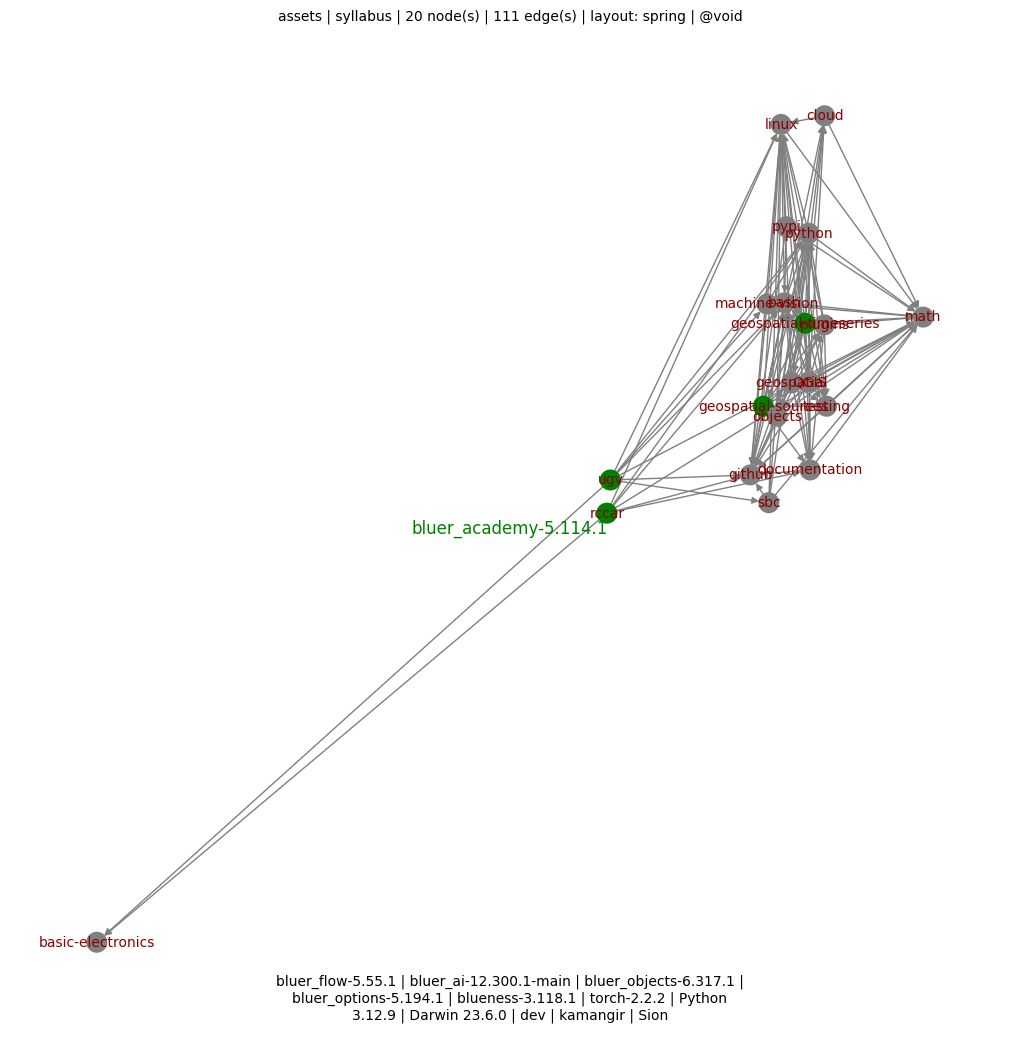
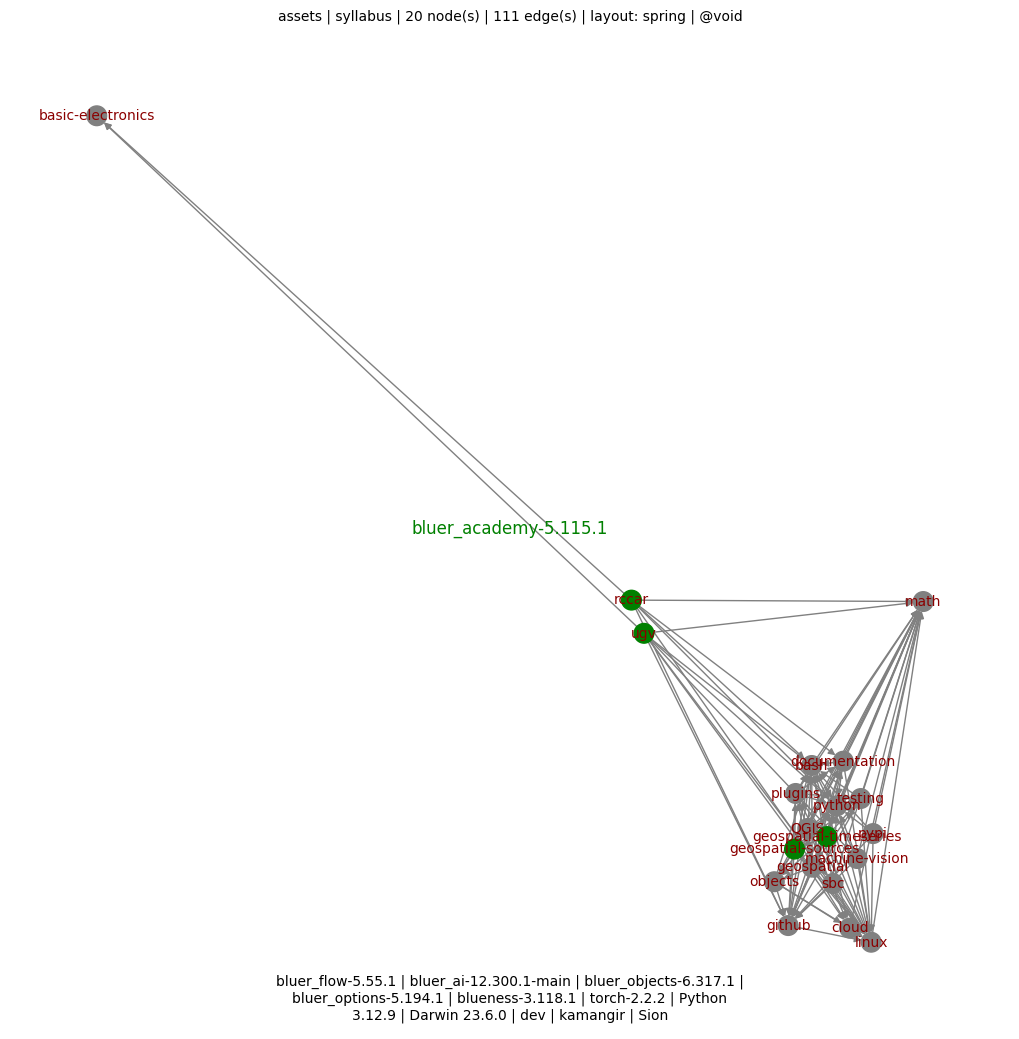
++ - kamangir/bolt#746

diff --git a/bluer_academy/README/academy.py b/bluer_academy/README/academy.py
@@ -7,6 +7,13 @@ from bluer_academy.academy.syllabus import syllabus
 docs = [
     {
         "path": "../docs/academy",
+        "items": ImageItems(
+            {
+                list(topic.items.keys())[0]: topic.items[list(topic.items.keys())[0]]
+                for topic in syllabus.list_of_topics
+                if topic.items
+            }
+        ),
         "macros": {
             "table:::": syllabus.as_markdown[1],
             "duration:::": [

diff --git a/bluer_academy/__init__.py b/bluer_academy/__init__.py
@@ -4,7 +4,7 @@ ICON = "📐"
 
 DESCRIPTION = f"{ICON} an academy for practical AI in Iran."
 
-VERSION = "5.114.1"
+VERSION = "5.115.1"
 
 REPO_NAME = "bluer-academy"
 

diff --git a/README.md b/README.md
@@ -15,4 +15,4 @@ pip install bluer-academy
 
 [![pylint](https://github.com/kamangir/bluer-academy/actions/workflows/pylint.yml/badge.svg)](https://github.com/kamangir/bluer-academy/actions/workflows/pylint.yml) [![pytest](https://github.com/kamangir/bluer-academy/actions/workflows/pytest.yml/badge.svg)](https://github.com/kamangir/bluer-academy/actions/workflows/pytest.yml) [![bashtest](https://github.com/kamangir/bluer-academy/actions/workflows/bashtest.yml/badge.svg)](https://github.com/kamangir/bluer-academy/actions/workflows/bashtest.yml) [![PyPI version](https://img.shields.io/pypi/v/bluer-academy.svg)](https://pypi.org/project/bluer-academy/) [![PyPI - Downloads](https://img.shields.io/pypi/dd/bluer-academy)](https://pypistats.org/packages/bluer-academy)
 
-built by 🌀 [`bluer README`](https://github.com/kamangir/bluer-objects/tree/main/bluer_objects/README), based on 📐 [`bluer_academy-5.114.1`](https://github.com/kamangir/bluer-academy).
+built by 🌀 [`bluer README`](https://github.com/kamangir/bluer-objects/tree/main/bluer_objects/README), based on 📐 [`bluer_academy-5.115.1`](https://github.com/kamangir/bluer-academy).

diff --git a/bluer_academy/docs/academy/README.md b/bluer_academy/docs/academy/README.md
@@ -29,4 +29,18 @@
 
 ⏳ total duration: 105.0 hours
 
+
+<details>
+<summary>graph</summary>
+
 ![image](../../assets/syllabus.png)
+
+</details>
+
+
+## capstone projects
+
+|   |   |   |
+| --- | --- | --- |
+| [![image](https://github.com/kamangir/assets/raw/main/blue-geo/Maxar-Open-Datacube.png?raw=true)](https://github.com/kamangir/bluer-geo/tree/main/bluer_geo/catalog/maxar_open_data) | [![image](https://github.com/kamangir/assets/raw/main/geo-watch-2025-05-23-2ck64x/geo-watch-2025-05-23-2ck64x.gif?raw=true)](https://github.com/kamangir/bluer-geo/tree/main/bluer_geo/watch) | [![image](https://github.com/kamangir/assets2/raw/main/ravin/20250723_095155~2_1.gif?raw=true)](https://github.com/kamangir/bluer-ugv/blob/main/bluer_ugv/docs/ravin/ravin3) |
+| [![image](https://github.com/kamangir/assets/raw/main/arzhang/VID-20250905-WA0014_1.gif?raw=true)](https://github.com/kamangir/bluer-ugv) |  |  |

diff --git a/bluer_academy/docs/academy/template.md b/bluer_academy/docs/academy/template.md
@@ -8,4 +8,10 @@ table:::
 
 duration:::
 
+details:::graph
 ![image](../../assets/syllabus.png)
+details:::
+
+## capstone projects
+
+items:::
